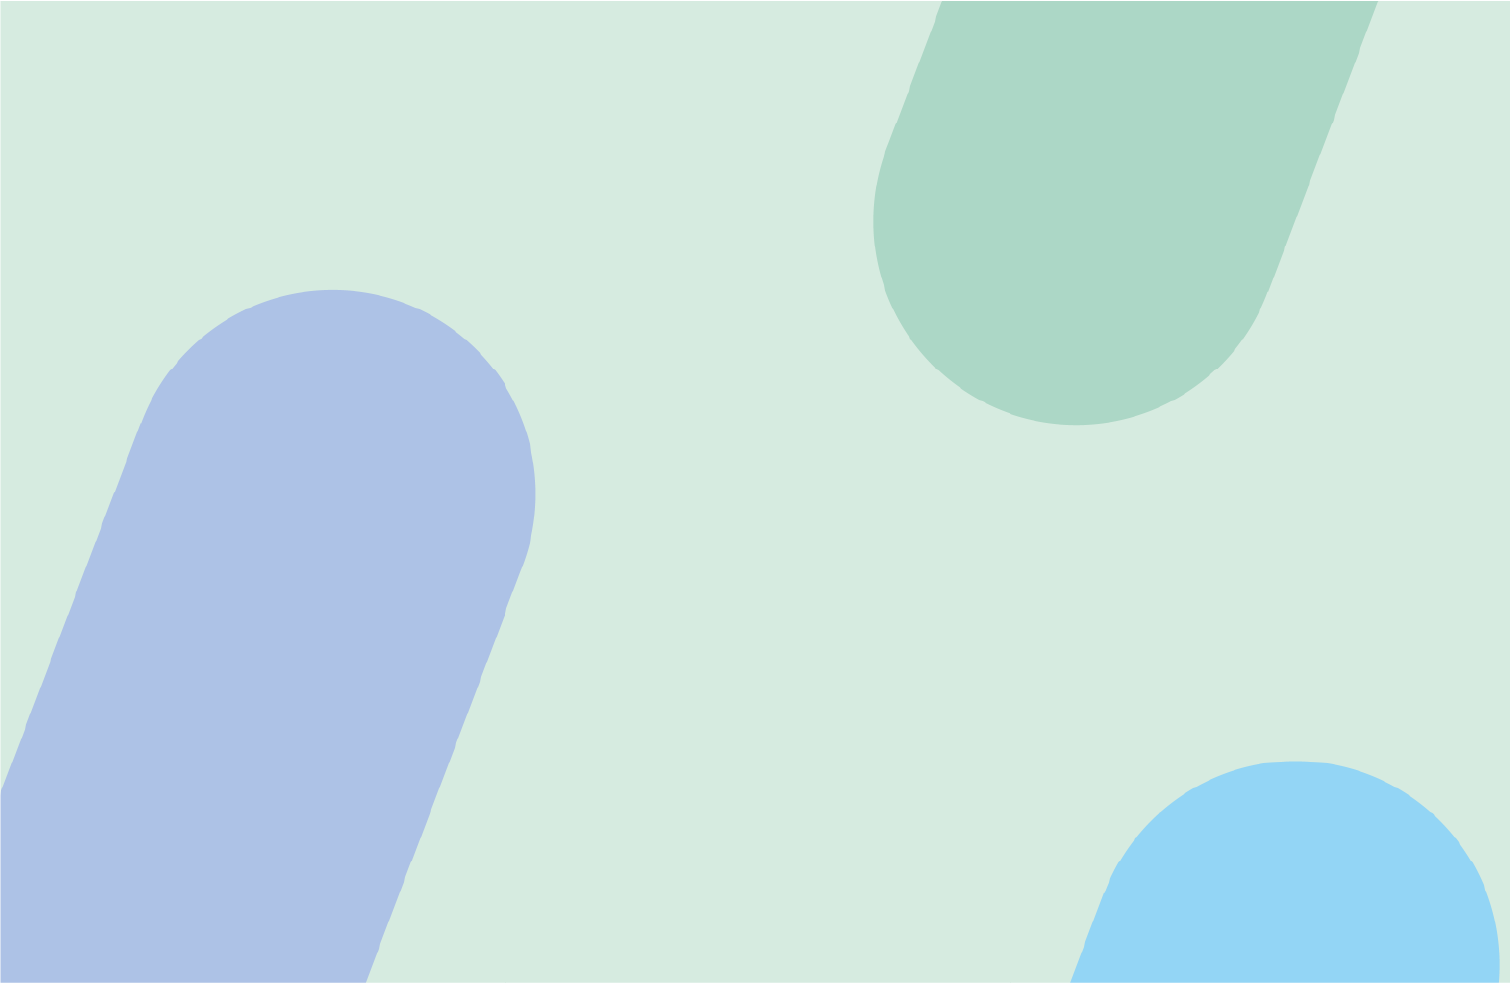
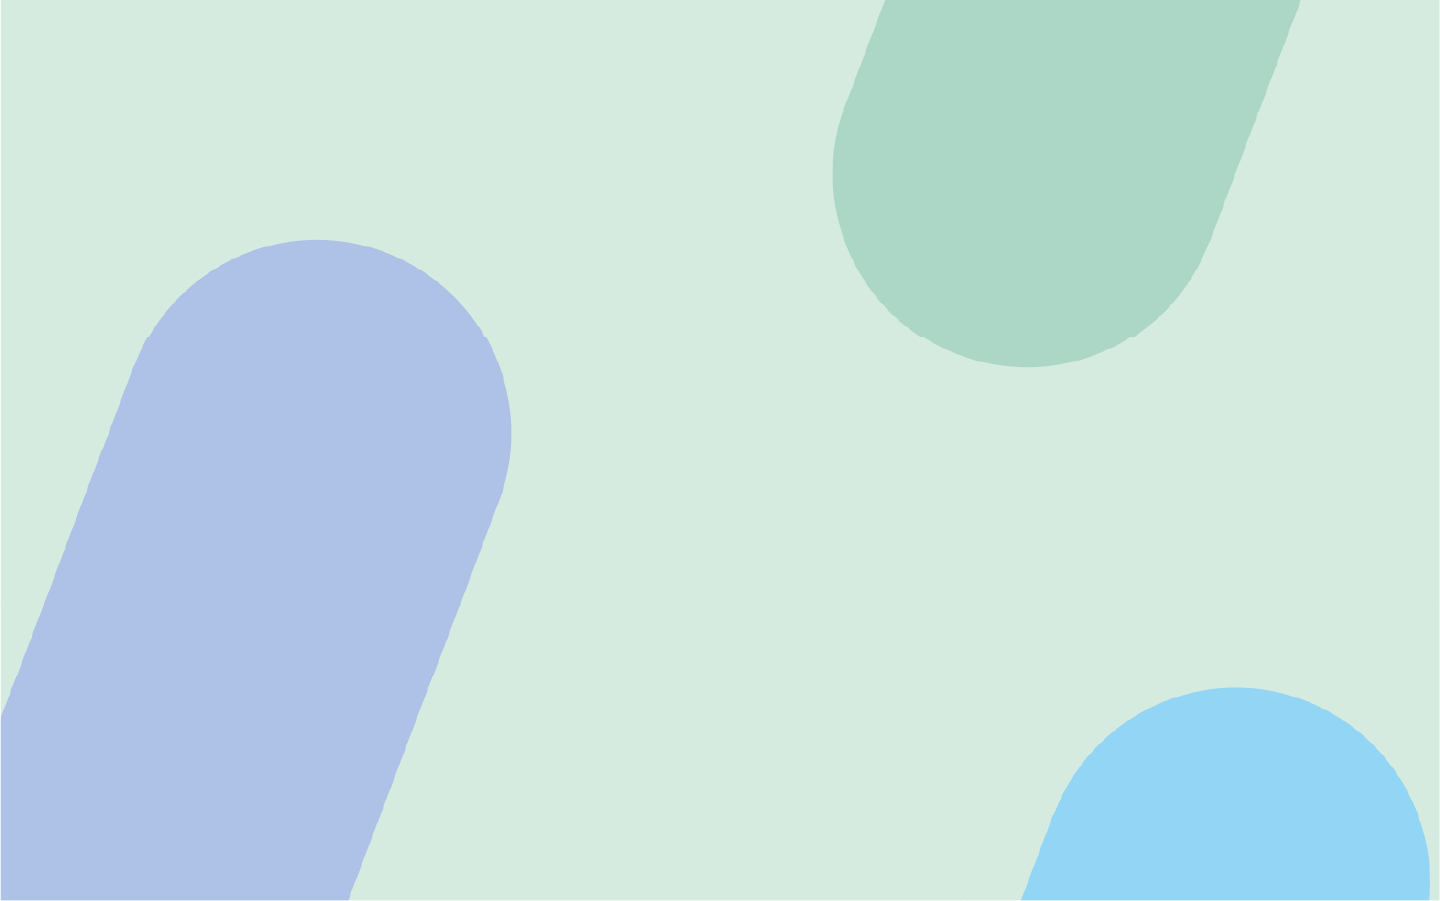
background

diff --git a/src/App.css b/src/App.css
@@ -385,20 +385,6 @@ nav {
   }
 }
 
-/*@media (min-width: 35em) and (max-width: 44.999em) {
-  .primary-navigation {
-    margin-bottom: 2rem;
-    --gap: clamp(1rem, 1vw, 2rem);
-  }
-}*/
-
-/*@media (min-width: 45em) {
-  .primary-navigation {
-    margin-block: 2rem;
-    --gap: clamp(1rem, 1vw, 2rem);
-  }
-}*/
-
 .underline-indicators > * {
   cursor: pointer;
   padding: var(--underline-gap, 1rem) 0;
@@ -514,7 +500,8 @@ body {
 }
 
 .home {
-  background-image: url('./assets/hac-back.png');
+  background-image: url('./assets/hac-back-desktop.png');
+  background-position: center center;
 }
 
 .destination {
@@ -527,7 +514,8 @@ body {
 
 @media (min-width: 35rem) {
   .home {
-    background-image: url('./assets/hac-back.png');
+    background-image: url('./assets/hac-back-tablet.png');
+    background-position: center center;
   }
   .destination {
     background-position: center center;
@@ -540,6 +528,8 @@ body {
     /*background-color: #f0f0f0;*/
     /*background-position: center center;*/
     background-image: url('./assets/hac-back.png');
+    background-position: center center;
+    background-repeat: no-repeat;
   }
   .destination {
     background-image: url(./assets/destination/background-destination-desktop.jpg);
